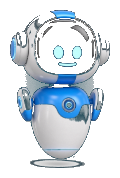
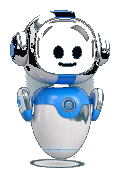
Park Eva bottom-right and animate her eyes and mouth.

diff --git a/src/index.css b/src/index.css
@@ -2145,7 +2145,7 @@ body::after {
     transform: translateY(0) rotate(-2deg);
   }
   50% {
-    transform: translateY(-14px) rotate(2deg);
+    transform: translateY(-10px) rotate(2deg);
   }
 }
 .eva-float {
@@ -2154,6 +2154,121 @@ body::after {
 }
 .eva-float.is-dragging {
   animation: none;
+}
+
+.eva-face {
+  isolation: isolate;
+}
+
+.eva-visage {
+  position: absolute;
+  left: 28%;
+  top: 22%;
+  width: 44%;
+  height: 22%;
+  pointer-events: none;
+  z-index: 2;
+}
+
+.eva-eye {
+  position: absolute;
+  top: 28%;
+  width: 18%;
+  aspect-ratio: 1;
+  border-radius: 50%;
+  background: radial-gradient(circle at 35% 35%, #eaffff 0%, #5cf6ff 35%, #00c8ff 75%, #0077aa 100%);
+  box-shadow:
+    0 0 6px rgba(0, 230, 255, 0.95),
+    0 0 14px rgba(0, 200, 255, 0.55);
+  animation:
+    eva-blink 4.6s ease-in-out infinite,
+    eva-glance 5.8s ease-in-out infinite;
+}
+
+.eva-eye--l {
+  left: 18%;
+  animation-delay: 0s, 0s;
+}
+
+.eva-eye--r {
+  right: 18%;
+  left: auto;
+  animation-delay: 0.08s, 0s;
+}
+
+.eva-mouth {
+  position: absolute;
+  left: 50%;
+  bottom: 8%;
+  width: 34%;
+  height: 28%;
+  border: 2.5px solid transparent;
+  border-bottom-color: #5ef8ff;
+  border-radius: 50%;
+  transform: translateX(-50%);
+  box-shadow: 0 4px 10px rgba(0, 220, 255, 0.35);
+  animation: eva-talk 2.8s ease-in-out infinite;
+  filter: drop-shadow(0 0 4px rgba(0, 230, 255, 0.85));
+}
+
+@keyframes eva-blink {
+  0%,
+  42%,
+  48%,
+  100% {
+    transform: scaleY(1);
+    opacity: 1;
+  }
+  45% {
+    transform: scaleY(0.12);
+    opacity: 0.75;
+  }
+}
+
+@keyframes eva-glance {
+  0%,
+  20%,
+  100% {
+    translate: 0 0;
+  }
+  28% {
+    translate: 2px 0;
+  }
+  36% {
+    translate: -2px 1px;
+  }
+  44%,
+  70% {
+    translate: 0 0;
+  }
+}
+
+@keyframes eva-talk {
+  0%,
+  100% {
+    width: 30%;
+    height: 22%;
+    border-bottom-width: 2px;
+    opacity: 0.9;
+  }
+  35% {
+    width: 38%;
+    height: 34%;
+    border-bottom-width: 3px;
+    opacity: 1;
+  }
+  55% {
+    width: 28%;
+    height: 18%;
+    border-bottom-width: 2px;
+    opacity: 0.85;
+  }
+  75% {
+    width: 36%;
+    height: 30%;
+    border-bottom-width: 2.5px;
+    opacity: 1;
+  }
 }
 
 .hero-orbit {

diff --git a/src/components/AgentDock.jsx b/src/components/AgentDock.jsx
@@ -4,22 +4,34 @@ import { Send, Sparkles, X } from "lucide-react";
 import { AGENT_PROMPTS, askPortfolioAgent } from "../lib/portfolioAgent";
 import { useSiteContent } from "../site-content";
 
-const POS_KEY = "sps-agent-pos-v2";
+const POS_KEY = "sps-agent-pos-v3";
 const WIDTH = 118;
 const HEIGHT = 176;
 
-function EvaFace({ size = 96, className = "" }) {
+function EvaFace({ size = 96, className = "", live = false }) {
   const h = Math.round(size * 1.48);
   return (
-    <img
-      src="/eva-icon.png"
-      alt="Eva"
-      width={size}
-      height={h}
-      draggable={false}
-      className={`object-contain select-none pointer-events-none ${className}`}
-      style={{ width: size, height: h, background: "transparent" }}
-    />
+    <span
+      className={`eva-face relative inline-block select-none pointer-events-none ${className}`}
+      style={{ width: size, height: h }}
+    >
+      <img
+        src="/eva-icon.png"
+        alt="Eva"
+        width={size}
+        height={h}
+        draggable={false}
+        className="object-contain absolute inset-0 w-full h-full"
+        style={{ background: "transparent" }}
+      />
+      {live && (
+        <span className="eva-visage" aria-hidden>
+          <span className="eva-eye eva-eye--l" />
+          <span className="eva-eye eva-eye--r" />
+          <span className="eva-mouth" />
+        </span>
+      )}
+    </span>
   );
 }
 
@@ -45,7 +57,7 @@ function clampPos(x, y) {
 }
 
 function defaultSidePos() {
-  return clampPos(window.innerWidth - WIDTH - 18, Math.round(window.innerHeight * 0.38));
+  return clampPos(window.innerWidth - WIDTH - 16, window.innerHeight - HEIGHT - 28);
 }
 
 export default function AgentDock() {
@@ -271,7 +283,7 @@ export default function AgentDock() {
           setOpen((value) => !value);
         }}
       >
-        <EvaFace size={110} />
+        <EvaFace size={110} live />
       </button>
     </div>
   );
